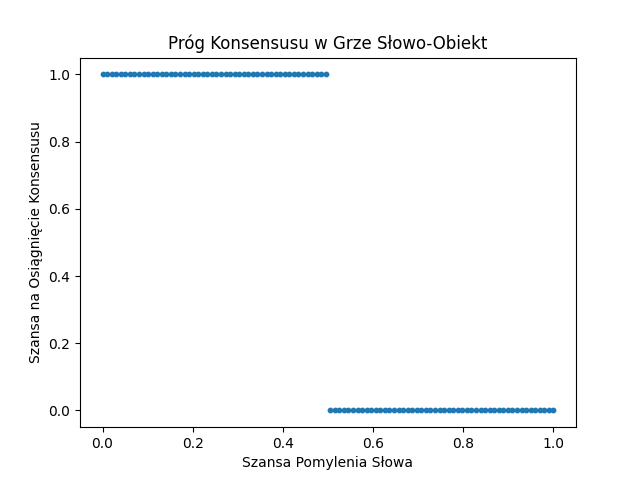
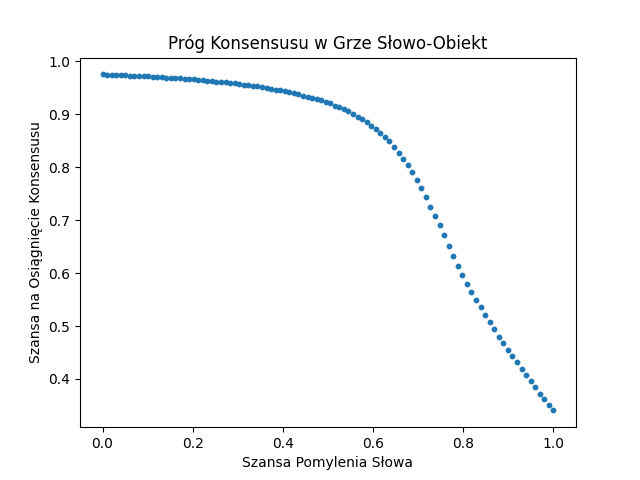
further analysis

diff --git a/analysis/fuzzy_object.py b/analysis/fuzzy_object.py
@@ -8,21 +8,16 @@ def consensus_threshold():
     y = np.zeros((len(bit_flip_prob), 4, 100000))
     try:
         for i, p in enumerate(bit_flip_prob):
-            data = np.load(f"data/word_phase/part_{i}.npy")
+            data = np.load(f"data/object_phase/part_{i}.npy")
             y[i] = data.mean(axis=-1)
             del data
 
     except FileNotFoundError:
         pass
 
-    # plt.scatter(bit_flip_prob[::-1], y[::-1], s=10)
-    # plt.xlabel("Szansa Pomylenia Słowa")
-    # plt.ylabel("Średni Konsensusu")
-    # plt.title("Próg Konsensusu w Grze Słowo-Obiekt")
-    # plt.savefig("plots/word_game/consensus_threshold.png")
-    # plt.close()
 
-    os.makedirs("plots/word_game", exist_ok=True)
+
+    os.makedirs("plots/object_game", exist_ok=True)
     sample_idx = np.arange(y.shape[2])
 
     Y, X = np.meshgrid(bit_flip_prob, sample_idx)
@@ -44,7 +39,7 @@ def consensus_threshold():
             ax.invert_yaxis()
             ax.invert_xaxis()
 
-        ax.set_ylabel("Szansa Pomylenia Słowa")
+        ax.set_ylabel("Szansa Pomylenia Obiektu")
         ax.set_xlabel("Indeks Próby")
         ax.set_zlabel("Wartość")
 
@@ -57,16 +52,14 @@ def consensus_threshold():
             extent=(bit_flip_prob.min(), bit_flip_prob.max(), sample_idx.min(), sample_idx.max()),
             cmap="viridis"
         )
-        axhm.set_xlabel("Szansa Pomylenia Słowa")
+        axhm.set_xlabel("Szansa Pomylenia Obiektu")
         axhm.set_ylabel("Indeks Próby")
         fig.colorbar(im, ax=axhm, shrink=0.8)
 
         fig.suptitle(stat_names[stat])
         plt.tight_layout()
-        plt.savefig(f"plots/word_game/consensus_surface_stat_{stat}.png", dpi=200)
+        plt.savefig(f"plots/object_game/consensus_surface_stat_{stat}.png", dpi=200)
         plt.close(fig)
-
-
 
 
 consensus_threshold()

diff --git a/main.py b/main.py
@@ -302,13 +302,13 @@ def object_baseline():
     obj_conf = np.linspace(0, 1, 100)
 
     for i, conf in tqdm.tqdm(enumerate(obj_conf)):
-        game = FuzzyWordGame(
+        game = FuzzyObjectGame(
                 game_instances=iters,
                 agents=DEFAULT_POPULATION_SIZE, 
                 objects=DEFAULT_OBJECTS_SIZE, 
                 memory=DEFAULT_MEMORY_SIZE, 
                 device=device, 
-                flip_prob=conf,
+                confusion_prob=conf,
                 vocab_size=DEFAULT_VOCAB_SIZE, 
                 context_size=DEFAULT_CONTEXT_SIZE,
             )
@@ -369,15 +369,15 @@ def clusters():
 if __name__ == "__main__":
     try:
         # test_base_game()
-        baseline()
+        # baseline()
         # population_size_base()
         # object_size_base()
         # memory_size_base()
         # vocab_size_base()
         # context_window_size_base()
         # word_baseline()
-        # object_baseline()
-        word_object_baseline()
+        object_baseline()
+        # word_object_baseline()
         # clusters()
     except Exception as e:
         with open("error_log.txt", "w") as f:
